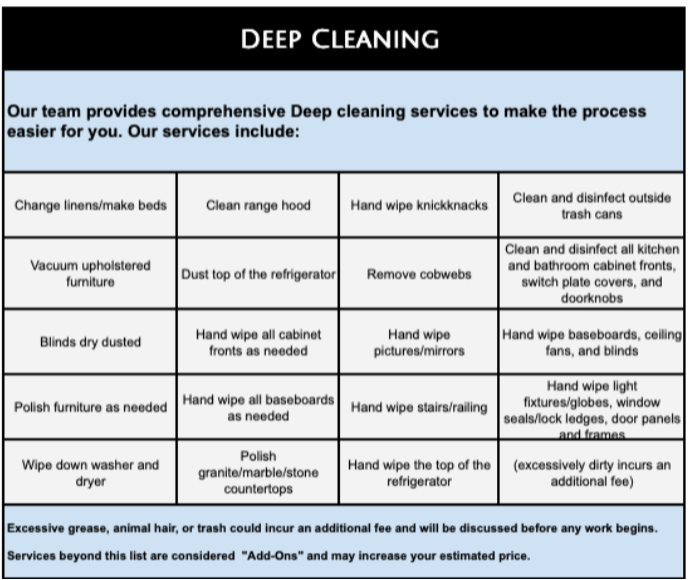
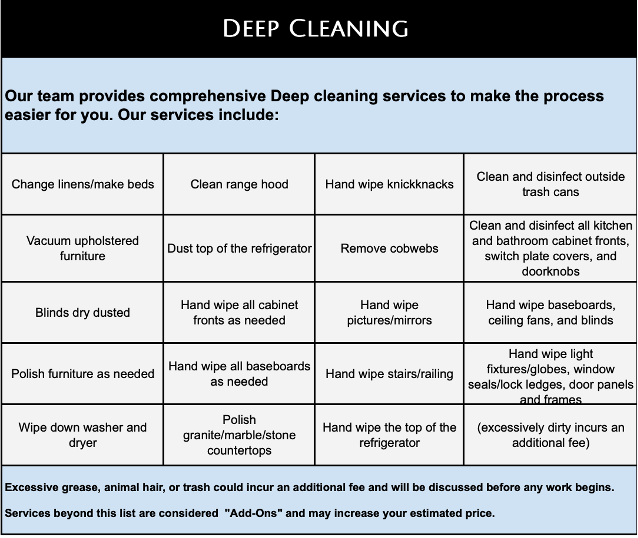
Updates to Home and Reviews Pages
Home -- "Deep Cleaning" and "MoveIn MoveOut" images were restored from blurred versions
Reviews -- The pdf is not visible on Google Chrome. The "Embed" code is added to contain the pdf file.  It is now visible on Google Chrome.

diff --git a/TS_styles.css b/TS_styles.css
@@ -244,16 +244,22 @@ section#bc.service_item:hover + div#bc_i.service_item_img{
 
 /* ----Reviews Pages -----*/
 #reviews_container{
-    display:flex;
+    display: flex;
     justify-content: center;
     width: 100%;
-    height: auto;
+    height: 65%;
     margin: 0% 10% 0% 2%;
 }
 
 #reviews_img{
     flex: auto;
-    min-width: 600px;
     padding: 10px;
 
+}
+
+
+#reviews_img,
+html,
+body {
+    height: 100%;
 }

diff --git a/Reviews.html b/Reviews.html
@@ -25,7 +25,7 @@
 
     <h1>TC Cleaning Service</h1>    
 
-    <div id="reviews_container"><img id="reviews_img"src="Reviews.pdf"></div>
+    <div id="reviews_container"><embed id="reviews_img" src="Reviews.pdf"></embed></div>
 
     <footer></footer>
    
